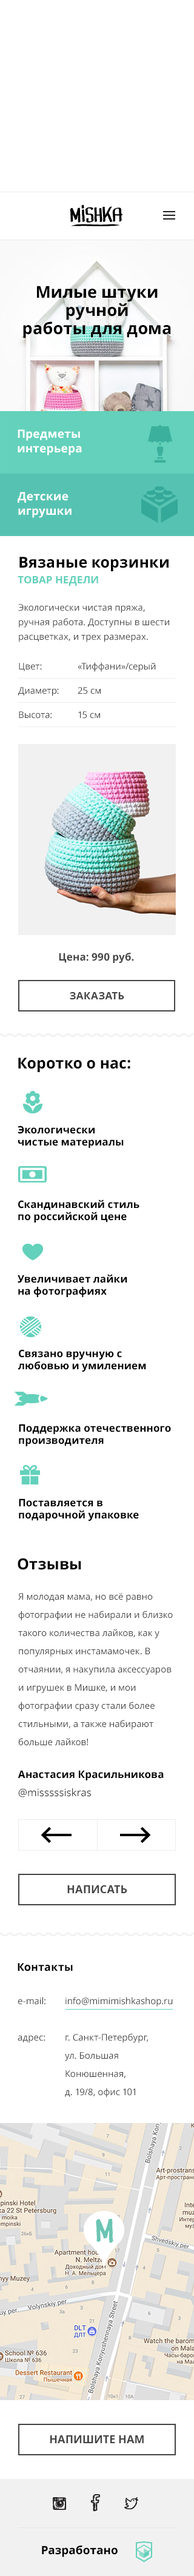
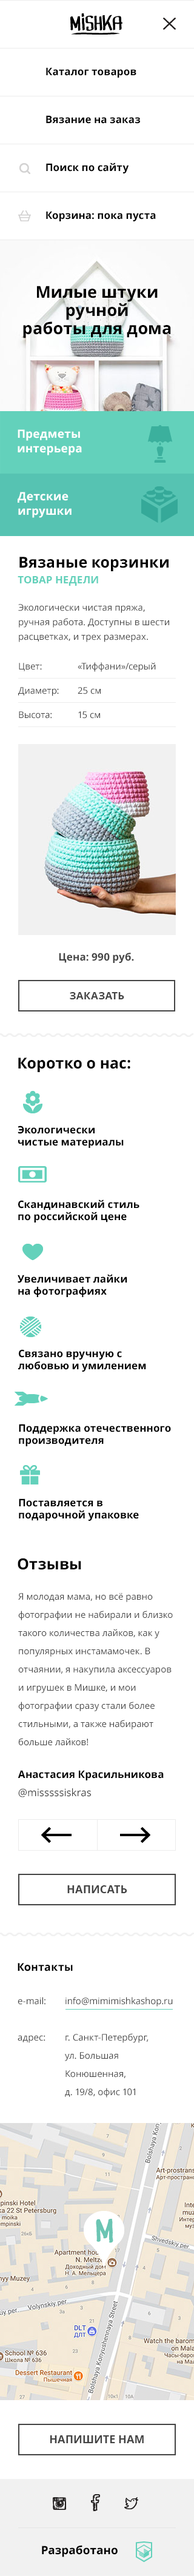
adaptive main-nav

Changed region(s): [[0.2812, 0.0621, 0.625, 0.0932], [0.3438, 0.0, 0.625, 0.0311]]

diff --git a/source/css/outlines.css b/source/css/outlines.css
@@ -1,0 +1,187 @@
+/* Обводки */
+body > *,
+body > * > *,
+body > * > * > *,
+body > * > * > * > *,
+body > * > * > * > * > * {
+  position: relative;
+}
+
+body > *::before,
+body > * > *::before,
+body > * > * > *::before,
+body > * > * > * > *::before,
+body > * > * > * > * > *::before {
+  content: "."attr(class);
+
+  position: absolute;
+  top: 2px;
+  left: 2px;
+
+  height: 24px;
+  padding: 2px 5px;
+
+  font-weight: bold;
+  font-size: 16px;
+  line-height: 24px;
+  font-family: "Courier New", monospace;
+  white-space: nowrap;
+}
+
+body > * {
+  background: rgba(128, 255, 128, 0.25);
+  background-clip: content-box;
+  outline: 3px solid green;
+  outline-offset: -3px;
+}
+
+body > *::before {
+  color: white;
+  background: green;
+}
+
+body > * > * {
+  background: rgba(255, 45, 82, 0.2);
+  background-clip: content-box;
+  outline: 3px solid rgba(255, 45, 82, 0.9);
+  outline-offset: -3px;
+}
+
+body > * > *::before {
+  color: white;
+  background: rgb(255, 45, 82);
+}
+
+body > * > * > * {
+  background: rgba(173, 216, 230, 0.2);
+  background-clip: content-box;
+  outline: 3px solid rgba(173, 216, 230, 0.9);
+  outline-offset: -3px;
+}
+
+body > * > * > *::before {
+  color: black;
+  background: lightblue;
+}
+
+body > * > * > * > * {
+  background: rgba(234, 255, 45, 0.2);
+  background-clip: content-box;
+  outline: 3px solid rgba(234, 255, 45, 0.9);
+  outline-offset: -3px;
+}
+
+body > * > * > * > *::before {
+  color: black;
+  background: rgb(234, 255, 45);
+}
+
+body > * > * > * > * > * {
+  outline: 3px solid violet;
+  outline-offset: -3px;
+}
+
+body > * > * > * > * > *::before {
+  color: black;
+  background: violet;
+}
+
+.block-mock {
+  .no-outline();
+
+  height: 100px;
+
+  background-color: rgba(255, 255, 255, 0.25);
+  background-image: linear-gradient(135deg, rgba(0, 0, 0, 0.25) 25%, transparent 25%), linear-gradient(225deg, rgba(0, 0, 0, 0.25) 25%, transparent 25%), linear-gradient(45deg, rgba(0, 0, 0, 0.25) 25%, transparent 25%), linear-gradient(315deg, rgba(0, 0, 0, 0.25) 25%, transparent 25%);
+  background-position: 25px 0, 25px 0, 0 0, 0 0;
+  background-size: 50px 50px;
+  background-repeat: repeat;
+  outline: 3px solid rgba(0, 0, 0, 0.25);
+}
+
+.nav-mock {
+  background: rgba(255, 255, 255, 0.5);
+  outline: none;
+}
+
+.nav-mock::before {
+  background: gray;
+}
+
+.block-mock::before {
+  color: white;
+  background: gray;
+}
+
+.main-nav__wrapper::before {
+  left: auto;
+  right: 3px;
+}
+
+.site-list::before {
+  top: auto;
+  bottom: 3px;
+}
+
+.user-list::before {
+  top: auto;
+  bottom: 3px;
+}
+
+.stats__header::before,
+.stats__list::before {
+  top: auto;
+  bottom: 2px;
+}
+
+.advantages__wrapper::before {
+  left: auto;
+  right: 2px;
+}
+
+.advantages__item::before {
+  top: auto;
+  bottom: 2px;
+}
+
+.news__wrapper::before {
+  left: auto;
+  right: 2px;
+}
+
+.news__item::before {
+  top: auto;
+  bottom: 2px;
+}
+
+.reviews__wrapper::before {
+  left: auto;
+  right: 2px;
+}
+
+.page-footer__wrapper::before {
+  left: auto;
+  right: 2px;
+}
+
+@media (min-width: 768px) {
+@media (min-width: 768px) {
+  .page-footer__copyright::before {
+    font-size: 10px;
+  }
+
+  .user-list::before {
+    content: "...";
+  }
+
+  .nav-mock::before {
+    left: auto;
+    right: 2px;
+  }
+}
+
+@media (min-width: 1200px) {
+  .page-footer__social::before {
+    font-size: 10px;
+  }
+}

diff --git a/source/index.html b/source/index.html
@@ -6,13 +6,14 @@
   <title>Интернет магазин милых вещиц для дома ручной работы «Мишка»</title>
   <link href="https://fonts.googleapis.com/css?family=Open+Sans:400,700&amp;subset=cyrillic" rel="stylesheet">
   <link rel="stylesheet" href="/node_modules/normalize.css/normalize.css">
+  <link rel="stylesheet" href="css/outlines.css">
   <link rel="stylesheet" href="css/style.css">
 </head>
 
 <body>
   <header class="page-header">
     <nav class="main-nav container">
-      <a class="main-nav__logo">
+      <!-- <a class="main-nav__logo">
       </a>
       <ul class="main-nav__site-list">
       </ul>
@@ -20,10 +21,10 @@
       </ul>
       <ul class="main-nav__func-list">
       </ul>
-      <span class="main-nav__free-delivery"></span>
+      <span class="main-nav__free-delivery"></span> -->
     </nav>
   </header>
-  <main class="page-main">
+  <!-- <main class="page-main">
     <h1 class="page-main__heading"></h1>
     <section class="catalog-links">
       <ul class="catalog-links__list">
@@ -86,7 +87,7 @@
     </div>
     <div class="page-footer__copyright copyright">
     </div>
-  </footer>
+  </footer> -->
 </body>
 
 </html>

diff --git a/source/sass/blocks/main-nav.scss b/source/sass/blocks/main-nav.scss
@@ -1,3 +1,8 @@
+.main-nav {
+  /* Временно для сетки */
+  min-height: 395px;
+}
+
 .main-nav__site-list {
   @include reset-list;
 }
@@ -17,3 +22,21 @@
   font-weight: 400;
   display: none;
 }
+
+
+@media(max-width: $tablet-width) {
+  .main-nav {
+    width: $mobile-width;
+    padding: 0;
+  }
+}
+
+@media (min-width: $tablet-width) {
+  .main-nav {
+    /* Временно для сетки */
+    min-height: 150px;
+  }
+}
+
+
+@media (min-width: $desktop-width) {}

diff --git a/source/sass/outlines.scss b/source/sass/outlines.scss
@@ -1,0 +1,19 @@
+body {
+  background: url("../img/mishka-index-mobile.png") no-repeat 50% 0;
+  min-height: 4248px;
+}
+
+
+@media (min-width: $tablet-width) {
+  body {
+    background: url("../img/mishka-index-tablet.png") no-repeat 50% 0;
+    min-height: 3710px;
+  }
+}
+
+@media (min-width: $desktop-width) {
+  body {
+    background: url("../img/mishka-index-desktop.png") no-repeat 50% 0;
+    min-height: 3623px;
+  }
+}

diff --git a/source/sass/style.scss b/source/sass/style.scss
@@ -44,3 +44,4 @@ img {
 @import "blocks/page-footer.scss";
 @import "blocks/social.scss";
 @import "blocks/copyright.scss";
+@import "outlines.scss";
